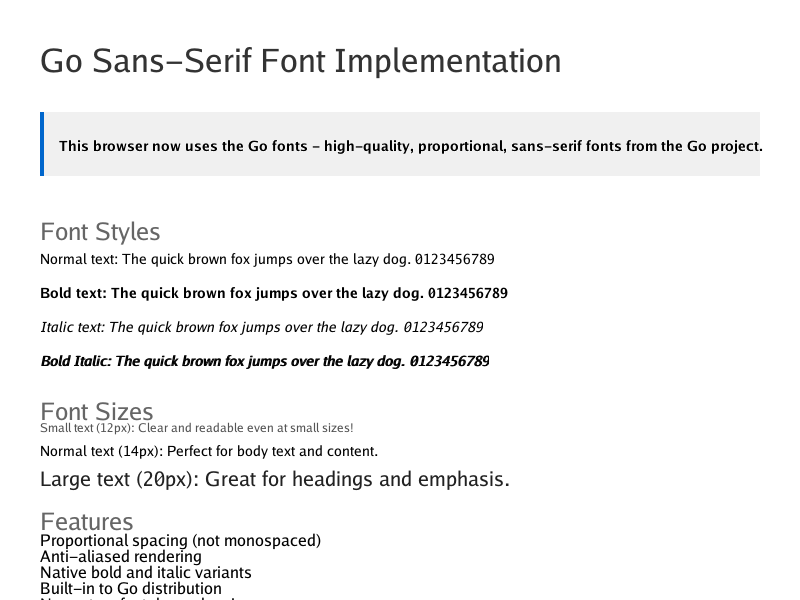
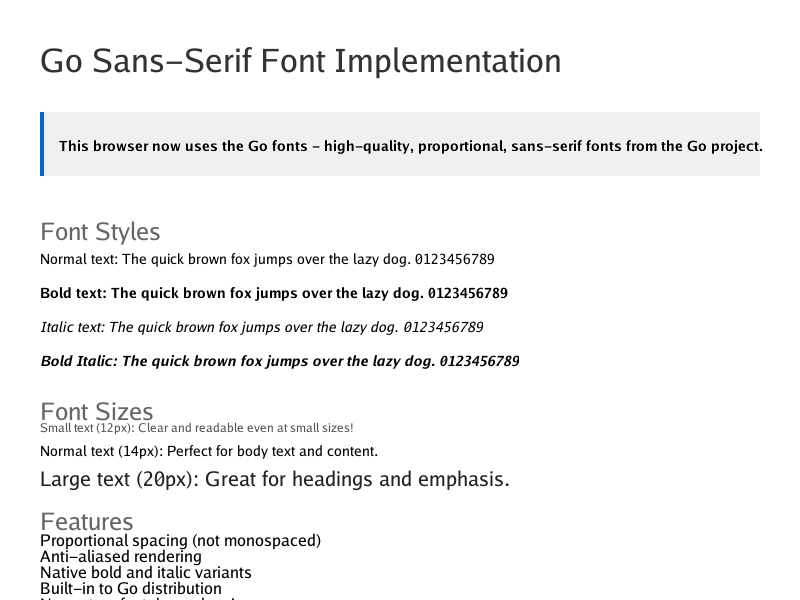
Use native bold-italic font instead of synthetic rendering

Changed region(s): [[0.0625, 0.57, 0.6562, 0.63]]

diff --git a/render/render.go b/render/render.go
@@ -19,6 +19,7 @@ import (
 	"golang.org/x/image/font"
 	"golang.org/x/image/font/basicfont"
 	"golang.org/x/image/font/gofont/gobold"
+	"golang.org/x/image/font/gofont/gobolditalic"
 	"golang.org/x/image/font/gofont/goitalic"
 	"golang.org/x/image/font/gofont/goregular"
 	"golang.org/x/image/font/opentype"
@@ -41,11 +42,12 @@ const (
 var (
 	// Global font cache to avoid reloading fonts
 	// The Go fonts are embedded in the binary and always available
-	goRegularFont *opentype.Font
-	goBoldFont    *opentype.Font
-	goItalicFont  *opentype.Font
-	fontOnce      sync.Once
-	fontErr       error
+	goRegularFont    *opentype.Font
+	goBoldFont       *opentype.Font
+	goItalicFont     *opentype.Font
+	goBoldItalicFont *opentype.Font
+	fontOnce         sync.Once
+	fontErr          error
 )
 
 // loadGoFonts loads the built-in Go fonts from the golang.org/x/image/font/gofont packages.
@@ -72,6 +74,13 @@ func loadGoFonts() error {
 		
 		// Load Go Italic font
 		goItalicFont, err = opentype.Parse(goitalic.TTF)
+		if err != nil {
+			fontErr = err
+			return
+		}
+		
+		// Load Go Bold Italic font
+		goBoldItalicFont, err = opentype.Parse(gobolditalic.TTF)
 		if err != nil {
 			fontErr = err
 			return
@@ -181,9 +190,10 @@ func (c *Canvas) DrawStyledText(text string, x, y int, col color.RGBA, style Fon
 		var selectedFont *opentype.Font
 		
 		// CSS 2.1 §15.6 & §15.7: Choose font based on weight and style
-		// Note: We use bold font for bold, italic font for italic
-		// For bold+italic, we use italic and apply synthetic bold
-		if style.Weight == "bold" && style.Style != "italic" {
+		// We have native fonts for all combinations: regular, bold, italic, and bold-italic
+		if style.Weight == "bold" && style.Style == "italic" {
+			selectedFont = goBoldItalicFont
+		} else if style.Weight == "bold" {
 			selectedFont = goBoldFont
 		} else if style.Style == "italic" {
 			selectedFont = goItalicFont
@@ -247,13 +257,6 @@ func (c *Canvas) DrawStyledText(text string, x, y int, col color.RGBA, style Fon
 	drawer.Dst = textImg
 	drawer.Dot = fixed.Point26_6{X: 0, Y: metrics.Ascent}
 	drawer.DrawString(text)
-	
-	// CSS 2.1 §15.6: Apply synthetic bold for bold+italic combination
-	// (since we're using italic font, we need to add bold effect)
-	if style.Weight == "bold" && style.Style == "italic" {
-		drawer.Dot = fixed.Point26_6{X: fixed.I(1), Y: metrics.Ascent}
-		drawer.DrawString(text)
-	}
 	
 	// Calculate baseline offset
 	baselineOffset := metrics.Ascent.Ceil()
